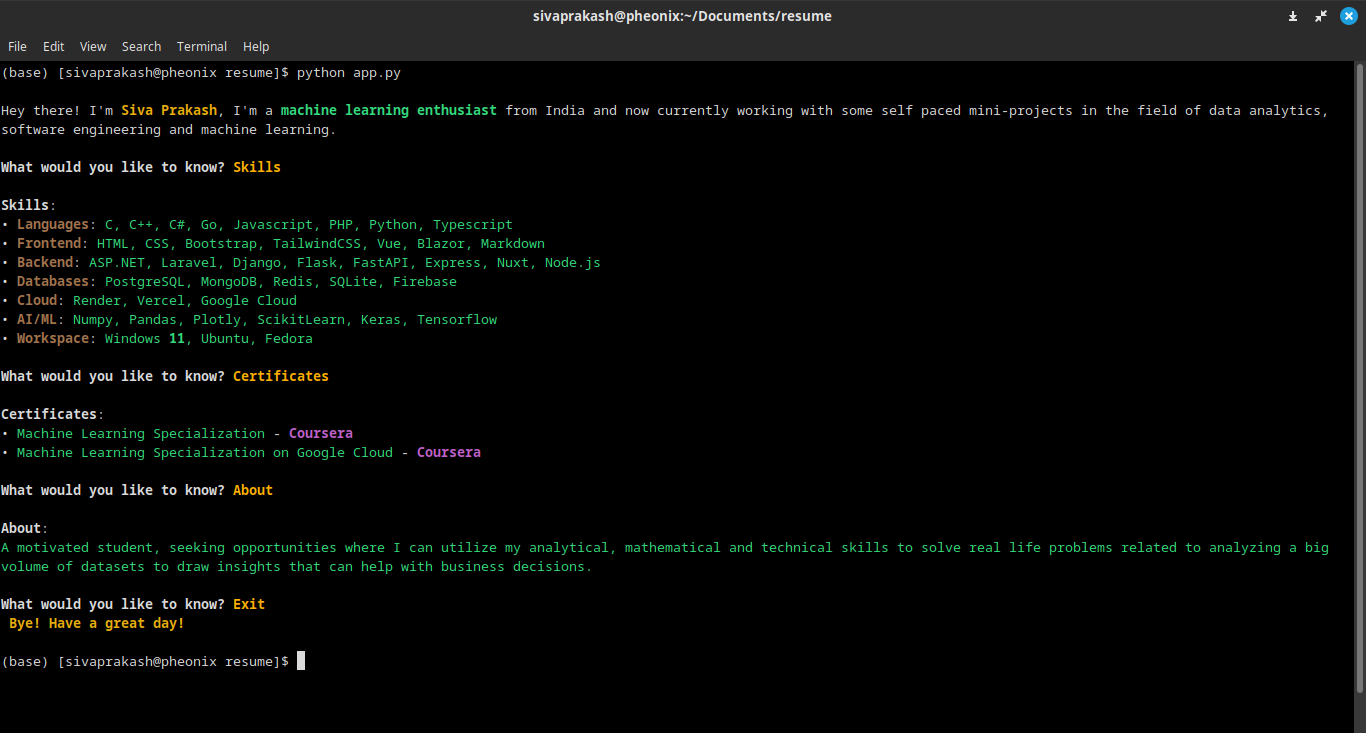
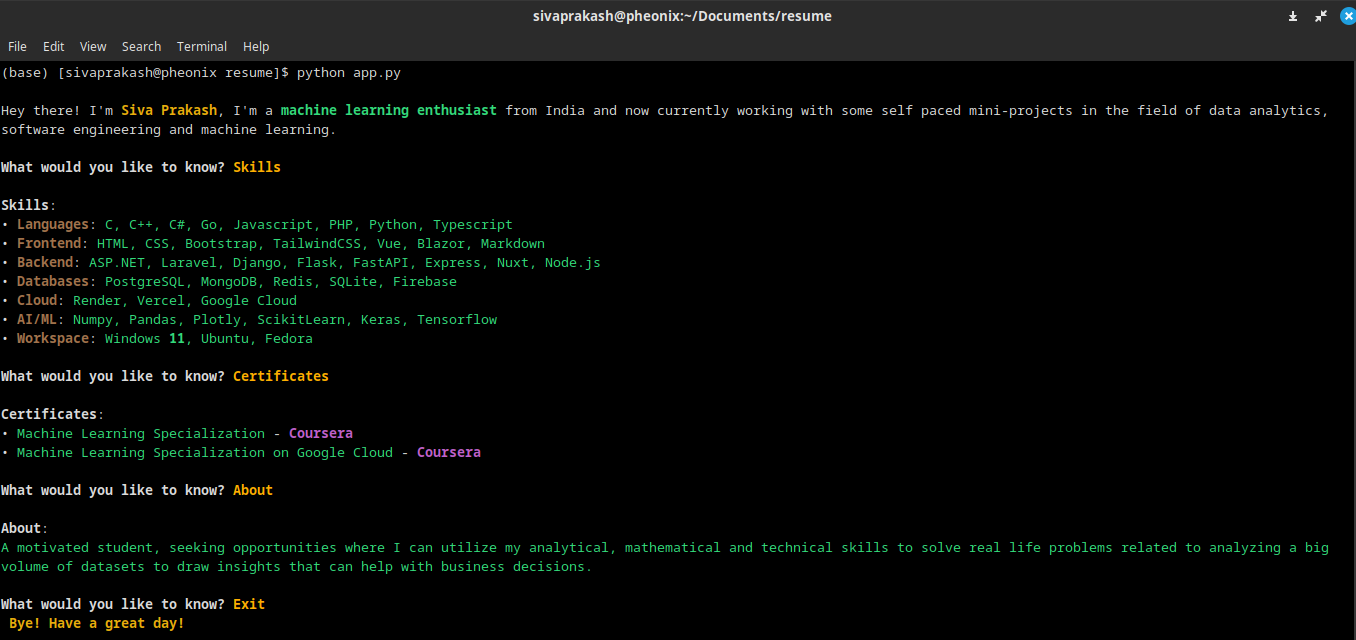
Updated app.py & Changed out.png file

diff --git a/app.py b/app.py
@@ -228,7 +228,7 @@ def main():
             except FileNotFoundError:
                 console.print("Couldn't find or load that file.")
 
-        elif choice == options[7]:
+        else:
             console.print("[bold bright_yellow] Bye! Have a great day!\n[/]")
             break
 
